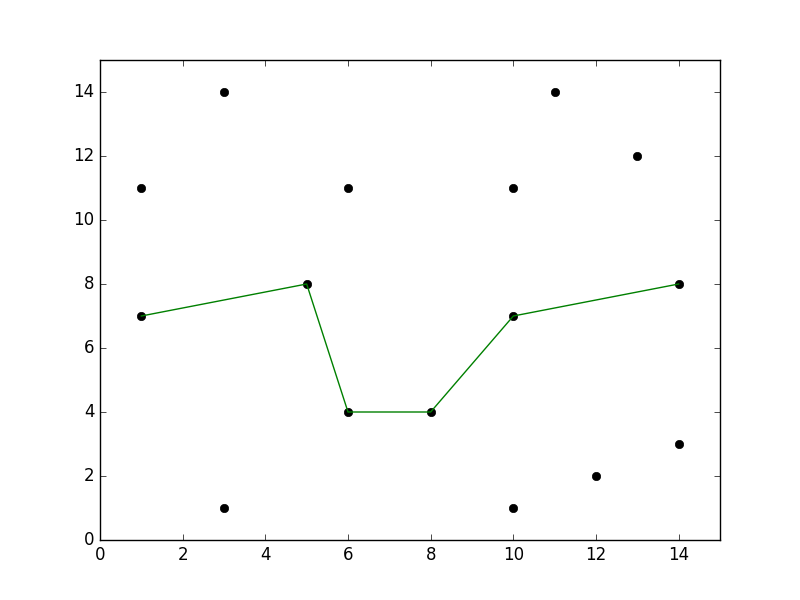
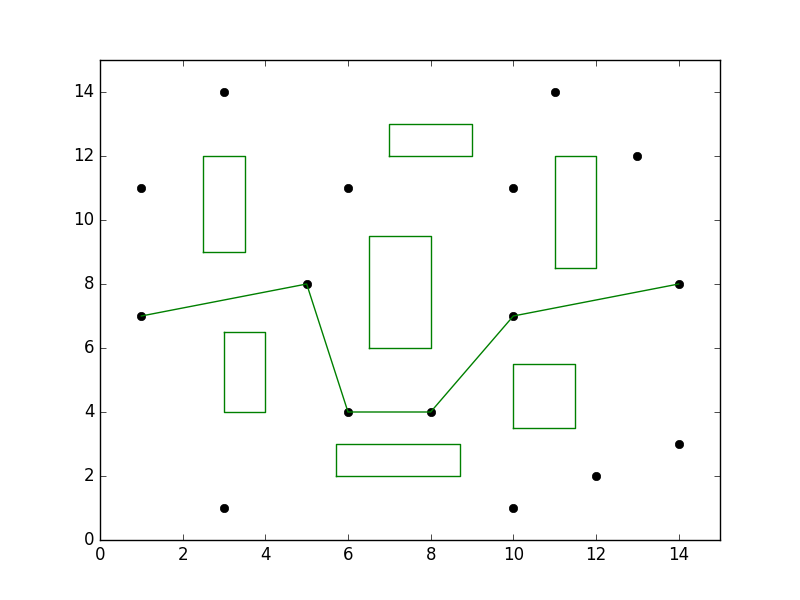
Obstacles included in plot, Draw obstacles function added in draw plot file

diff --git a/draw_plot.py b/draw_plot.py
@@ -11,6 +11,8 @@ def draw_plot(best_chromosome):
     plt.figure()
     plt.axis([0.0, 15.0, 0.0, 15.0])
 
+    _draw_obstacles()
+
     for element in Config.path_points:
         node_x.append(element[0])
         node_y.append(element[1])
@@ -25,3 +27,34 @@ def draw_plot(best_chromosome):
     plt.draw()
     plt.savefig("./docs/images/best_path.png")
     plt.pause(0.02)
+
+
+def _draw_obstacles():
+
+    obs_1_x = [2.5, 3.5, 3.5, 2.5, 2.5]
+    obs_1_y = [9, 9, 12, 12, 9]
+    plt.plot(obs_1_x, obs_1_y, "g")
+
+    obs_2_x = [3, 4, 4, 3, 3]
+    obs_2_y = [6.5, 6.5, 4, 4, 6.5]
+    plt.plot(obs_2_x, obs_2_y, "g")
+
+    obs_3_x = [7, 9, 9, 7, 7]
+    obs_3_y = [12, 12, 13, 13, 12]
+    plt.plot(obs_3_x, obs_3_y, "g")
+
+    obs_4_x = [6.5, 8, 8, 6.5, 6.5]
+    obs_4_y = [6, 6, 9.5, 9.5, 6]
+    plt.plot(obs_4_x, obs_4_y, "g")
+
+    obs_5_x = [5.7, 8.7, 8.7, 5.7, 5.7]
+    obs_5_y = [2, 2, 3, 3, 2]
+    plt.plot(obs_5_x, obs_5_y, "g")
+
+    obs_6_x = [11, 12, 12, 11, 11]
+    obs_6_y = [8.5, 8.5, 12, 12, 8.5]
+    plt.plot(obs_6_x, obs_6_y, "g")
+
+    obs_7_x = [10, 11.5, 11.5, 10, 10]
+    obs_7_y = [3.5, 3.5, 5.5, 5.5, 3.5]
+    plt.plot(obs_7_x, obs_7_y, "g")
